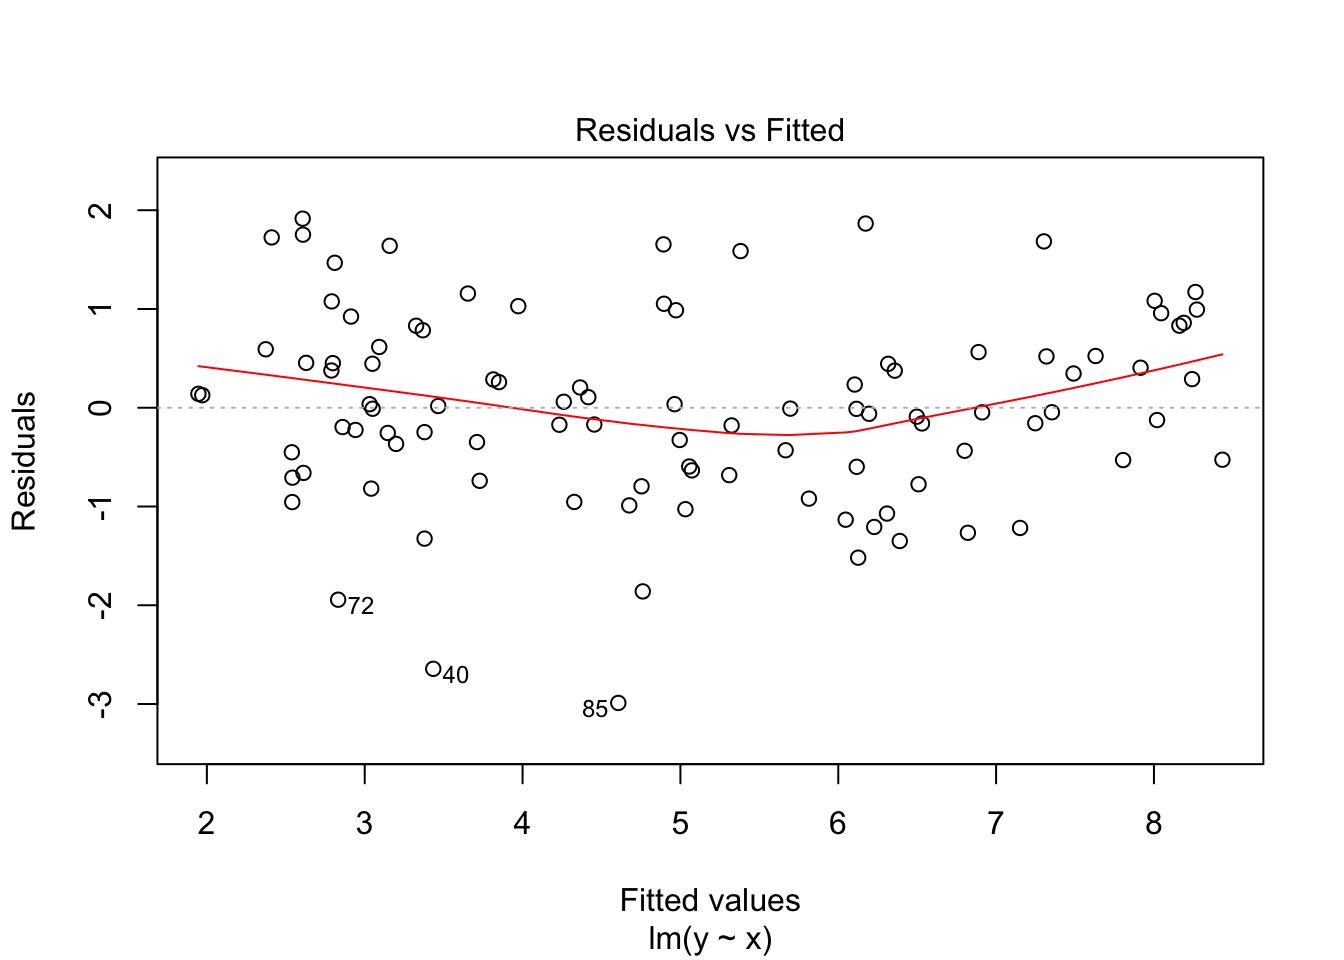
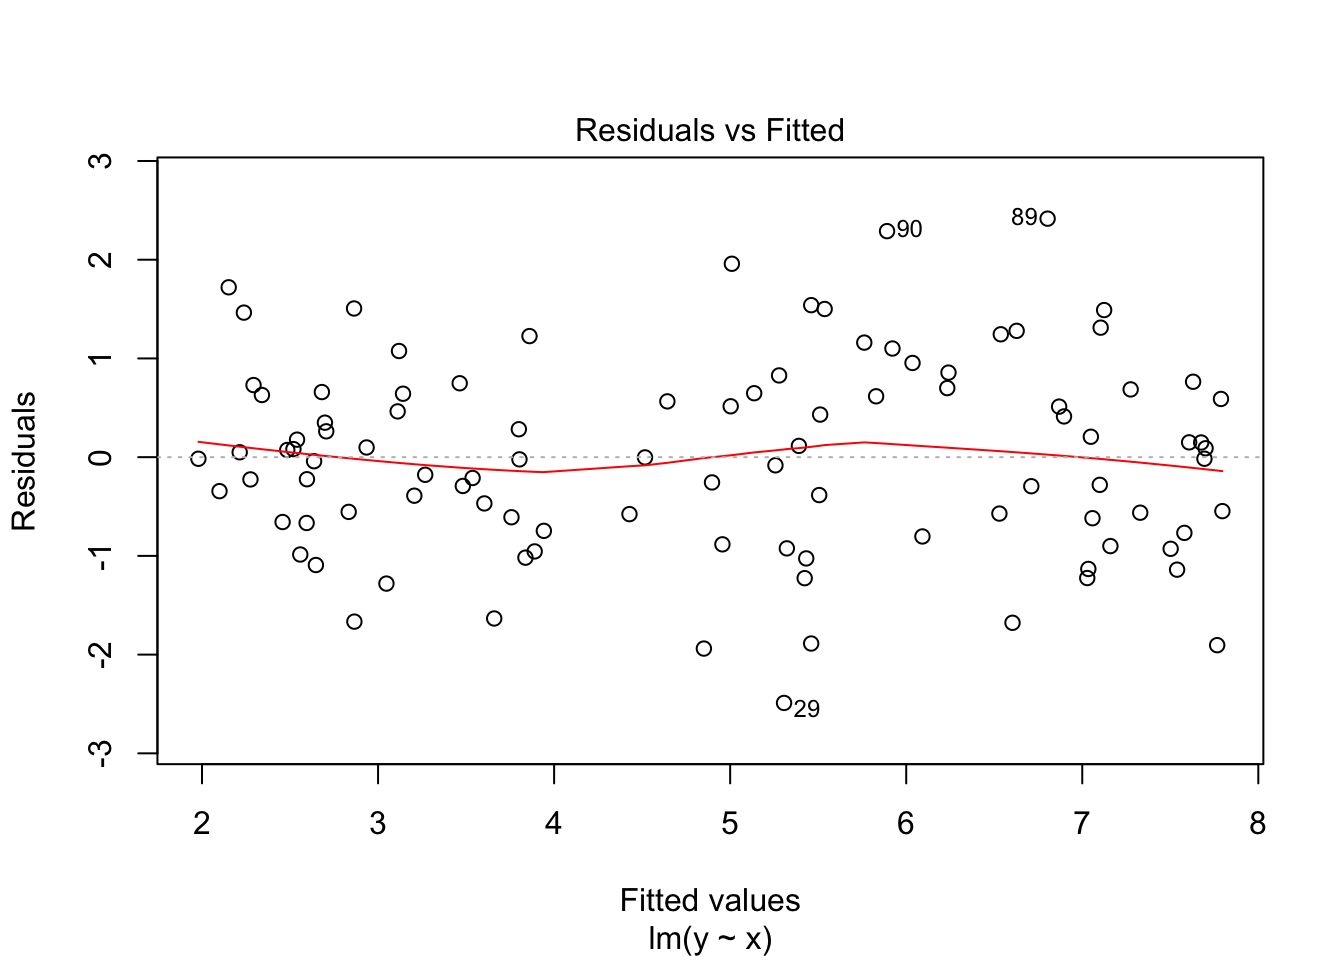
Update files

diff --git a/docs/basic-r-usage.html b/docs/basic-r-usage.html
@@ -15,7 +15,7 @@
   
   
   
-  
+  <meta name="github-repo" content="Thdegraaff/Research_tools_for_social_scientists" />
 
   <meta name="twitter:card" content="summary" />
   <meta name="twitter:title" content="Research Tools for Social Scientists" />
@@ -161,7 +161,7 @@ code > span.in { color: #60a0b0; font-weight: bold; font-style: italic; } /* Inf
 
             <section class="normal" id="section-">
 <div id="basic-r-usage" class="section level1">
-<h1><span class="header-section-number">3</span> Basic <code>R</code> Usage</h1>
+<h1><span class="header-section-number">Chapter 3</span> Basic <code>R</code> Usage</h1>
 <div class="sourceCode"><pre class="sourceCode r"><code class="sourceCode r"><span class="kw">library</span>(<span class="st">&quot;swirl&quot;</span>)
 <span class="kw">library</span>(<span class="st">&quot;rio&quot;</span>)
 <span class="kw">library</span>(<span class="st">&quot;ggplot2&quot;</span>)</code></pre></div>
@@ -183,12 +183,12 @@ code > span.in { color: #60a0b0; font-weight: bold; font-style: italic; } /* Inf
 </div>
 <div id="how-to-use-it" class="section level2">
 <h2><span class="header-section-number">3.3</span> How to use it</h2>
-<p><code>R</code> is truly a programming language in the sense that there is no graphical user interface (GUI) involved. You need to type your own commands. And for beginners this sort of sucks. It seems slower, you have no idea which commands to type in, and you frequently make many mistakes. However, when you start to use it more, speed of getting things done goes up (sometimes exponentially), you have a better grasp on the basic commands, and the number of mistakes go down. In contrast with programs such as <code>Excel</code> or <code>SPSS</code>, there are two big differences: (<em>i</em>) you use scripts and (<em>ii</em>) you make frequently use of packages which are essentially written by author <code>R</code> users.</p>
+<p><code>R</code> is truly a programming language in the sense that there is no graphical user interface (GUI) involved. You need to type your own commands. And for beginners this sort of sucks. It seems slower, you have no idea which commands to type in, and you frequently make many mistakes. However, when you start to use it more, speed of getting things done goes up (sometimes exponentially), you have a better grasp on the basic commands, and the number of mistakes go down. In contrast with programs such as <code>Excel</code> or <code>SPSS</code>, there are two big differences: (<em>i</em>) you use scripts and (<em>ii</em>) you make frequently use of packages which are essentially written by other <code>R</code> users.</p>
 <div id="subsec:scripts" class="section level3">
 <h3><span class="header-section-number">3.3.1</span> Scripts</h3>
-<p>The use of scripts or program files is some alien to most. Although <code>Stata</code> also make use of so-called <code>do</code> files. You start a new script by clicking on File &gt; New Script (<code>R</code> editor) or File &gt; New File &gt; New Script (<code>RStudio</code>). You now have a new <em>empty</em> file (which you have to save from time to time). If you fill in this file with commands, you are actually programming. The <strong>huge</strong> benefit of this procedure is that you record what you have done and that you can easily change something.</p>
+<p>The use of scripts or program files is somewhat alien to most. Although <code>Stata</code> also makes use of so-called <code>do</code> files. You start a new script by clicking on File &gt; New Script (<code>R</code> editor) or File &gt; New File &gt; New Script (<code>RStudio</code>). You now have a new <em>empty</em> file (which you have to save from time to time). If you fill in this file with commands, you are actually programming. The <strong>huge</strong> benefit of this procedure is that you record what you have done and that you can easily change something.</p>
 <p>As an example, assume that somebody gives you a dataset with 2 variables and ask you to analyse this dataset. With <code>SPSS</code> you read this dataset in and then click on various butttons so you get some output. Now, assume further that this person actually has forgotten a variable (this happens more often than you think) and gives you a new dataset with 3 variables. Then you have to do all the clicking again (and hopefully you remembered on which buttons you actually clicked).</p>
-<p>When you have a script file you only have to change the code in 1 or 2 places and run it all again. No sweat! So, writing up all the commmands and save it for later, might cost you some time in the <strong>beginning</strong>, but there are <strong>huge</strong> time savers later on! To run a script you simply need to press the button Edit &gt; Run all (<code>R</code> editor) or Code &gt; Run Region &gt; Run All (<code>RStudio</code>). Nobody does that however, because there are numerous Keyboard Shortcuts (I advise you to learn them, because they make you considerbly faster. Actually, most Keyboard Shortcuts work in a wide variety of editors–even in <code>Word</code>.)</p>
+<p>When you have a script file you only have to change the code in 1 or 2 places and run it all again. No sweat! So, writing up all the commmands and save it for later, might cost you some time in the <strong>beginning</strong>, but there are <strong>huge</strong> time savers later on! To run a script you simply need to press the button Edit &gt; Run all (<code>R</code> editor) or Code &gt; Run Region &gt; Run All (<code>RStudio</code>). Nobody does that however, because there are numerous Keyboard Shortcuts (I advise you to learn them, because they make you considerably faster. Actually, most Keyboard Shortcuts work in a wide variety of editors–even in <code>Word</code>.)</p>
 </div>
 <div id="help" class="section level3">
 <h3><span class="header-section-number">3.3.2</span> Help!</h3>
@@ -198,7 +198,7 @@ code > span.in { color: #60a0b0; font-weight: bold; font-style: italic; } /* Inf
 </div>
 <div id="subsec:packages" class="section level3">
 <h3><span class="header-section-number">3.3.3</span> Packages</h3>
-<p><code>R</code> (as many other software applications nowadays) depends heavily on packages written by other parties, usually users. There are now many packages out there. You can find the ‘official’ ones on <a href="https://cran.r-project.org/web/packages/available_packages_by_name.html">the CRAN website</a>, but there are many more out there. Packages have to be installed (both <code>R</code> editor and <code>RStudio</code> have a separate package manager) and afterwards loaded. Say, for instance we want to use the awesome <code>ggplot2</code> package (a package to make plots look nice, actually to make more elaborate plots but anyway), then to install and load the package we give the commands:</p>
+<p><code>R</code> (as many other software applications nowadays) depends heavily on packages written by other parties, usually users of <code>R</code>. There are now many packages out there. You can find the ‘official’ ones on <a href="https://cran.r-project.org/web/packages/available_packages_by_name.html">the CRAN website</a>, but there are many more. Packages have to be installed (both <code>R</code> editor and <code>RStudio</code> have a separate package manager) and afterwards loaded. Say, for instance we want to use the awesome <code>ggplot2</code> package (a package to make plots look nice, actually to make more elaborate plots but anyway), then to install and load the package we give the commands:</p>
 <div class="sourceCode"><pre class="sourceCode r"><code class="sourceCode r"><span class="kw">install.packages</span>(<span class="st">&quot;ggplot2&quot;</span>)
 <span class="kw">library</span>(<span class="st">&quot;ggplot2&quot;</span>)</code></pre></div>
 <p>Now, we can use the commands from this package as if they were built-in.</p>
@@ -206,7 +206,7 @@ code > span.in { color: #60a0b0; font-weight: bold; font-style: italic; } /* Inf
 </div>
 <div id="using-comments" class="section level3">
 <h3><span class="header-section-number">3.3.4</span> Using comments</h3>
-<p>A final word in this section about the use of comments. <strong>Do it!</strong>. Really, it will make your future life much easiert to document what you have done. You can insert comments by using the <code>#</code> operator (everything after the hashtag is a comment), so, e.g.,</p>
+<p>A final word in this section about the use of comments. <strong>Do it!</strong>. Really, it will make your future life much easier if you have documented what you have done. You can insert comments by using the <code>#</code> operator (everything after the hashtag is a comment), so, e.g.,</p>
 <div class="sourceCode"><pre class="sourceCode r"><code class="sourceCode r"><span class="dv">2+2</span> <span class="co"># always wanted to know about the outcome, but were afraid to ask</span></code></pre></div>
 </div>
 </div>
@@ -217,7 +217,7 @@ code > span.in { color: #60a0b0; font-weight: bold; font-style: italic; } /* Inf
 <div class="sourceCode"><pre class="sourceCode r"><code class="sourceCode r">df &lt;-<span class="st"> </span><span class="kw">read.csv</span>(<span class="dt">file=</span><span class="st">&quot;my_data.csv&quot;</span>, <span class="dt">header =</span> <span class="ot">TRUE</span>)</code></pre></div>
 <p>and your read in the <code>data.csv</code> in a data frame variable called <code>df</code>. Note that the original header variables are preserved. If you would like to store your data you can do the reverse, namely:</p>
 <div class="sourceCode"><pre class="sourceCode r"><code class="sourceCode r"><span class="kw">write.csv</span>(df, <span class="dt">file =</span> <span class="st">&quot;my_data.csv&quot;</span>)</code></pre></div>
-<p>Now sometimes you do not have nicely formatted <code>.csv</code> or <code>.txt</code>files, but nasty <code>.dta</code> files from Stata or <code>.xlsx</code> files from <code>Excel</code>. Here the package Rio comes very handed, being the swiss-army knife of data converters in <code>R</code>. Assume you have the <code>mtcars</code> dataset in various format, then you can do</p>
+<p>Now sometimes you do not have nicely formatted <code>.csv</code> or <code>.txt</code>files, but nasty <code>.dta</code> files from Stata or <code>.xlsx</code> files from <code>Excel</code>. Here the package Rio comes very handed, being the swiss-army knife of data converters in <code>R</code>. Assume you have the <code>mtcars</code> dataset in various formats, then you can do</p>
 <div class="sourceCode"><pre class="sourceCode r"><code class="sourceCode r"><span class="kw">library</span>(<span class="st">&quot;rio&quot;</span>)
 
 x &lt;-<span class="st"> </span><span class="kw">import</span>(<span class="st">&quot;mtcars.sav&quot;</span>)  <span class="co"># SPSS data file</span>
@@ -272,16 +272,16 @@ y_i = 2 + 6 x_i + \epsilon_i,
 \]</span> where <span class="math inline">\(\epsilon_i\)</span> is standard normally distributed (as I will explain later in Section <a href="linear-regression-and-how-to-apply-it.html#sec:theory">4.1</a> this is for convenience but <strong>not</strong> absolutely needed to do linear regression).</p>
 <p>checking this with</p>
 <div class="sourceCode"><pre class="sourceCode r"><code class="sourceCode r"><span class="kw">head</span>(df)</code></pre></div>
-<pre><code>##          y         x
-## 1 6.547059 0.4527184
-## 2 4.110017 0.2932251
-## 3 4.155993 0.2128771
-## 4 7.307813 0.8293205
-## 5 4.893880 0.5937219
-## 6 7.894951 0.9312583</code></pre>
-<p>indeed shows the first 6 combination of <span class="math inline">\(x\)</span> and <span class="math inline">\(y\)</span>. If we no do a linear regression, then we expect that the estimated intercept should be very close to 2 and the estimated slope parameter should be very close to 6. In <code>R</code> we have the command <code>lm()</code> (from linear model) to do this as follows:</p>
+<pre><code>##          y          x
+## 1 6.439611 0.86732214
+## 2 3.340124 0.12408581
+## 3 1.755044 0.02535753
+## 4 2.911930 0.49254007
+## 5 7.790278 0.97638801
+## 6 8.393476 0.96438591</code></pre>
+<p>indeed shows the first 6 combination of <span class="math inline">\(x\)</span> and <span class="math inline">\(y\)</span>. If we now perform a linear regression, then we expect that the estimated intercept should be very close to 2 and the estimated slope parameter should be very close to 6. In <code>R</code> we have the command <code>lm()</code> (from linear model) to do this as follows:</p>
 <div class="sourceCode"><pre class="sourceCode r"><code class="sourceCode r">linear_model &lt;-<span class="st"> </span><span class="kw">lm</span>(y~x, <span class="dt">data =</span> df)</code></pre></div>
-<p>We now have performed a regression of <span class="math inline">\(y\)</span> onto <span class="math inline">\(x\)</span>, using the data <code>df</code> and save the result in a variable called linear_model. First note the first part of the <code>lm(,)</code> expression. <code>y~x</code> means that <code>y</code> is the left-hand side variable and <code>x</code> the righ-hand side variable (if we more variables, the formula becomes something as<code>y~x+u+v+w+z</code>). The second part of the <code>lm(,)</code> expression denotes the specific dataframe to be used. Namely, in <code>R</code> you can have multiple dataframes so you have to specify which one is to be used.</p>
+<p>We now have performed a regression of <span class="math inline">\(y\)</span> onto <span class="math inline">\(x\)</span>, using the data <code>df</code> and save the result in a variable called linear_model. First note the first part of the <code>lm(,)</code> expression. <code>y~x</code> means that <code>y</code> is the left-hand side variable and <code>x</code> the righ-hand side variable (if we have more variables, the formula becomes something as<code>y~x+u+v+w+z</code>). The second part of the <code>lm(,)</code> expression denotes the specific dataframe to be used. Namely, in <code>R</code> you can have multiple dataframes so you have to specify which one is to be used.</p>
 <p>Right, but now what? Well, we have now a variable called linear_model, just typing in <code>linear_model</code> only gets you the real basic results:</p>
 <div class="sourceCode"><pre class="sourceCode r"><code class="sourceCode r">linear_model</code></pre></div>
 <pre><code>## 
@@ -290,31 +290,31 @@ y_i = 2 + 6 x_i + \epsilon_i,
 ## 
 ## Coefficients:
 ## (Intercept)            x  
-##       1.935        6.534</code></pre>
-<p>But, you want more, right. Standard errors, t-statistics, R-squares, the whole lot. Herefore, you need the <code>summary()</code> command, which gives you the following outcome</p>
+##       1.950        5.889</code></pre>
+<p>But, you want more, right? Standard errors, t-statistics, R-squares, the whole lot. For this, you need the <code>summary()</code> command, which gives you the following outcome</p>
 <div class="sourceCode"><pre class="sourceCode r"><code class="sourceCode r"><span class="kw">summary</span>(linear_model)</code></pre></div>
 <pre><code>## 
 ## Call:
 ## lm(formula = y ~ x, data = df)
 ## 
 ## Residuals:
-##      Min       1Q   Median       3Q      Max 
-## -2.98908 -0.60711 -0.01062  0.57071  1.91466 
+##     Min      1Q  Median      3Q     Max 
+## -2.4896 -0.6594 -0.0092  0.6507  2.4159 
 ## 
 ## Coefficients:
 ##             Estimate Std. Error t value Pr(&gt;|t|)    
-## (Intercept)   1.9346     0.1830   10.57   &lt;2e-16 ***
-## x             6.5342     0.3344   19.54   &lt;2e-16 ***
+## (Intercept)   1.9500     0.1846   10.56   &lt;2e-16 ***
+## x             5.8894     0.3122   18.86   &lt;2e-16 ***
 ## ---
 ## Signif. codes:  0 &#39;***&#39; 0.001 &#39;**&#39; 0.01 &#39;*&#39; 0.05 &#39;.&#39; 0.1 &#39; &#39; 1
 ## 
-## Residual standard error: 0.9622 on 98 degrees of freedom
-## Multiple R-squared:  0.7958, Adjusted R-squared:  0.7937 
-## F-statistic: 381.9 on 1 and 98 DF,  p-value: &lt; 2.2e-16</code></pre>
-<p>Interestingly, our parameters are close to 2 and 6, but not that close (which happens with a limited amount of observations, notice as well the relatively large standard errors). So, the command <code>summary()</code> gives all the needed statistical output, but what about regression diagnostics. For this you samply ask for a plot of the variable linear_model</p>
+## Residual standard error: 0.9882 on 98 degrees of freedom
+## Multiple R-squared:  0.7841, Adjusted R-squared:  0.7819 
+## F-statistic: 355.8 on 1 and 98 DF,  p-value: &lt; 2.2e-16</code></pre>
+<p>Interestingly, our parameters are close to 2 and 6, but not that close (which happens with a limited amount of observations, notice as well the relatively large standard errors). So, the command <code>summary()</code> gives all the needed statistical output, but what about regression diagnostics. For this you can ask for a plot of the variable linear_model</p>
 <div class="sourceCode"><pre class="sourceCode r"><code class="sourceCode r"><span class="kw">plot</span>(linear_model)</code></pre></div>
 <p><img src="unnamed-chunk-19-1.png" width="672" /><img src="unnamed-chunk-19-2.png" width="672" /><img src="unnamed-chunk-19-3.png" width="672" /><img src="unnamed-chunk-19-4.png" width="672" /></p>
-<p>And that is basically it, at least for the basics. There is something more to say about the <code>lm()</code> command, but that is for later.</p>
+<p>And that is basically it, at least for the basics. There is much more to say about the <code>lm()</code> command, but that is for later.</p>
 </div>
 <div id="making-plots" class="section level2">
 <h2><span class="header-section-number">3.7</span> Making plots</h2>

diff --git a/docs/linear-regression-and-how-to-apply-it.html b/docs/linear-regression-and-how-to-apply-it.html
@@ -15,7 +15,7 @@
   
   
   
-  
+  <meta name="github-repo" content="Thdegraaff/Research_tools_for_social_scientists" />
 
   <meta name="twitter:card" content="summary" />
   <meta name="twitter:title" content="Research Tools for Social Scientists" />
@@ -161,7 +161,7 @@ code > span.in { color: #60a0b0; font-weight: bold; font-style: italic; } /* Inf
 
             <section class="normal" id="section-">
 <div id="linear-regression-and-how-to-apply-it" class="section level1">
-<h1><span class="header-section-number">4</span> Linear Regression and how to apply it</h1>
+<h1><span class="header-section-number">Chapter 4</span> Linear Regression and how to apply it</h1>
 <div class="sourceCode"><pre class="sourceCode r"><code class="sourceCode r"><span class="kw">library</span>(<span class="st">&quot;stargazer&quot;</span>)</code></pre></div>
 <p>In the social sciences (in fact, in all sciences) linear regressions (also called OLS or ordinary least squares) or one of its relatives is the most <em>used</em> empirical research tool there is. Why? It is relatively simple, computationally fast, easy to interpret and relies on a relatively weak set of assumptions. Unfortunately, the assumptions needed to be able to apply linear regression, are often not well understood: both in the social sciences and beyond. Moreover, students in the social sciences typically get little guidance in how to apply linear regression in practice and how to interpret the results. Note that this does not have anything to do with the specific software students use, but more with that fact that regression techniques in a wide number of situations (courses) are just not given (apart from statistical or research methods courses). However, given the fact that data becomes increasingly more available, knowing when to use regression techniques, how to apply them and especially how to interpret and assess them is now becoming an issue of paramount importance. Or, perhaps more compelling, you need them to write your thesis.</p>
 <p>In this chapter, I will first focus in section <a href="linear-regression-and-how-to-apply-it.html#sec:theory">4.1</a> on the <em>essential</em> theory behind regression analysis. I really keep it to the bare minimum. But if you understand these basics, I would argue that you understand more than 75% of the theorical background (the rest if just nitty-gritty). Section <a href="linear-regression-and-how-to-apply-it.html#sec:applications">4.2</a> will focus on applications of linear regression, specification issues (how many variables) and how to interpret the results.</p>

diff --git a/docs/introduction.html b/docs/introduction.html
@@ -15,7 +15,7 @@
   
   
   
-  
+  <meta name="github-repo" content="Thdegraaff/Research_tools_for_social_scientists" />
 
   <meta name="twitter:card" content="summary" />
   <meta name="twitter:title" content="Research Tools for Social Scientists" />
@@ -161,7 +161,7 @@ code > span.in { color: #60a0b0; font-weight: bold; font-style: italic; } /* Inf
 
             <section class="normal" id="section-">
 <div id="introduction" class="section level1">
-<h1><span class="header-section-number">2</span> Introduction</h1>
+<h1><span class="header-section-number">Chapter 2</span> Introduction</h1>
 <div id="why-do-we-need-all-this" class="section level2">
 <h2><span class="header-section-number">2.1</span> Why do we need all this?</h2>
 <p>A natural question that arises, or at least should arise, is why bother? Why learn students in the social sciences new tools to do research. ‘Old’ tools<a href="#fn1" class="footnoteRef" id="fnref1"><sup>1</sup></a> such as <code>Word</code>, <code>Excel</code> and <code>Stata</code>do just as fine right? I would say yes, but up to a certain extent. If you are only interested in straightforward regression and anova techniques and collect your sample by survey research, then <code>Stata</code> and <code>Excel</code>(or even <code>SPSS</code>, the horror…) would definitely suffice. But if you would like to do more fancy and cool stuff, including creating beautiful diagrams, nice maps, simulation, network analysis, and even whole books in <code>html</code> then you need more elaborate tools.</p>

diff --git a/docs/index.html b/docs/index.html
@@ -15,7 +15,7 @@
   
   
   
-  
+  <meta name="github-repo" content="Thdegraaff/Research_tools_for_social_scientists" />
 
   <meta name="twitter:card" content="summary" />
   <meta name="twitter:title" content="Research Tools for Social Scientists" />
@@ -166,7 +166,7 @@ code > span.in { color: #60a0b0; font-weight: bold; font-style: italic; } /* Inf
 <h4 class="date"><em>October 19, 2016</em></h4>
 </div>
 <div id="preface" class="section level1">
-<h1><span class="header-section-number">1</span> Preface</h1>
+<h1><span class="header-section-number">Chapter 1</span> Preface</h1>
 <p>I started this book as background material for the course Network Analysis and from the need to teach social science students (and Business Administration students in particular) the basics of <code>R</code> and the intuition behing applying linear regression.</p>
 
 </div>

diff --git a/docs/network-analysis-with-r.html b/docs/network-analysis-with-r.html
@@ -15,7 +15,7 @@
   
   
   
-  
+  <meta name="github-repo" content="Thdegraaff/Research_tools_for_social_scientists" />
 
   <meta name="twitter:card" content="summary" />
   <meta name="twitter:title" content="Research Tools for Social Scientists" />
@@ -161,7 +161,7 @@ code > span.in { color: #60a0b0; font-weight: bold; font-style: italic; } /* Inf
 
             <section class="normal" id="section-">
 <div id="network-analysis-with-r" class="section level1">
-<h1><span class="header-section-number">5</span> Network analysis with <code>R</code></h1>
+<h1><span class="header-section-number">Chapter 5</span> Network analysis with <code>R</code></h1>
 <p>To be written</p>
 
 </div>

diff --git a/docs/in-conclusion.html b/docs/in-conclusion.html
@@ -15,7 +15,7 @@
   
   
   
-  
+  <meta name="github-repo" content="Thdegraaff/Research_tools_for_social_scientists" />
 
   <meta name="twitter:card" content="summary" />
   <meta name="twitter:title" content="Research Tools for Social Scientists" />
@@ -161,7 +161,7 @@ code > span.in { color: #60a0b0; font-weight: bold; font-style: italic; } /* Inf
 
             <section class="normal" id="section-">
 <div id="in-conclusion" class="section level1">
-<h1><span class="header-section-number">6</span> In conclusion</h1>
+<h1><span class="header-section-number">Chapter 6</span> In conclusion</h1>
 <p>To be written</p>
 
 </div>
